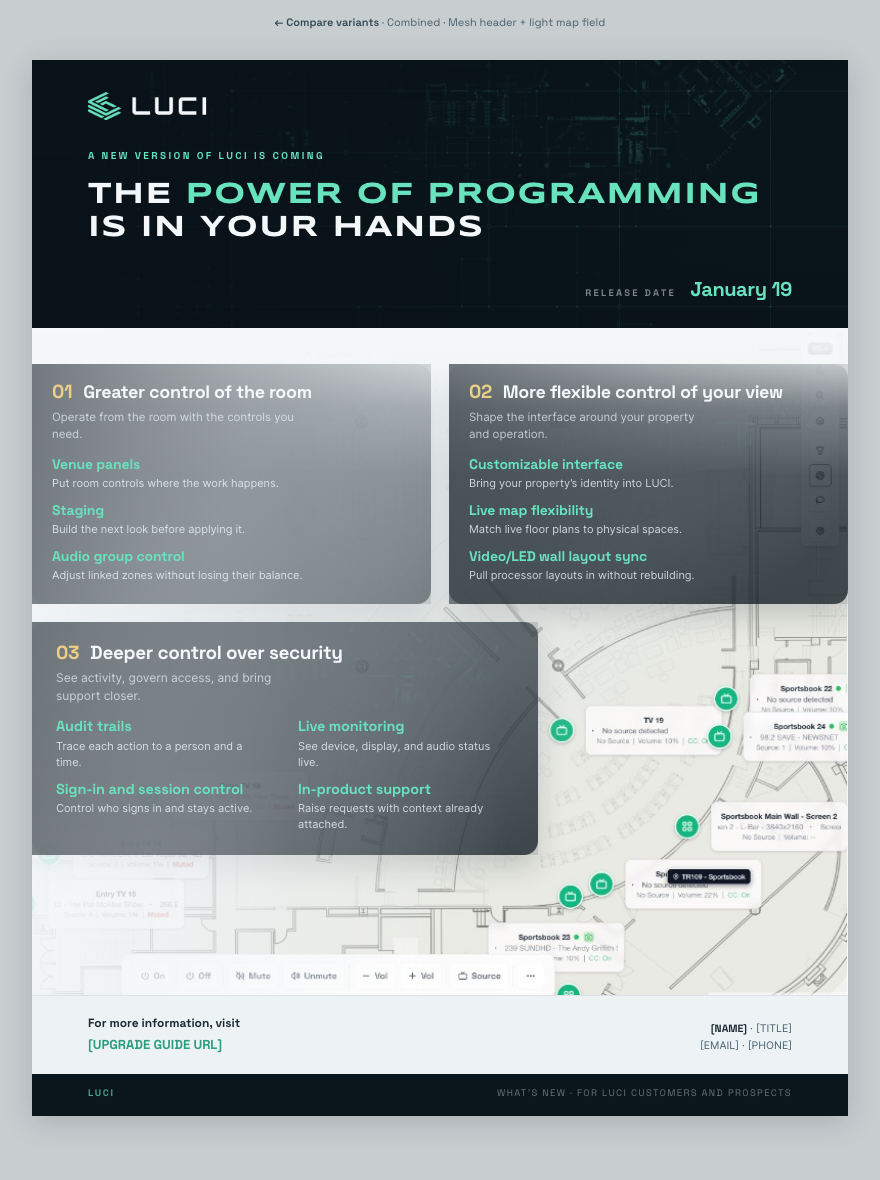
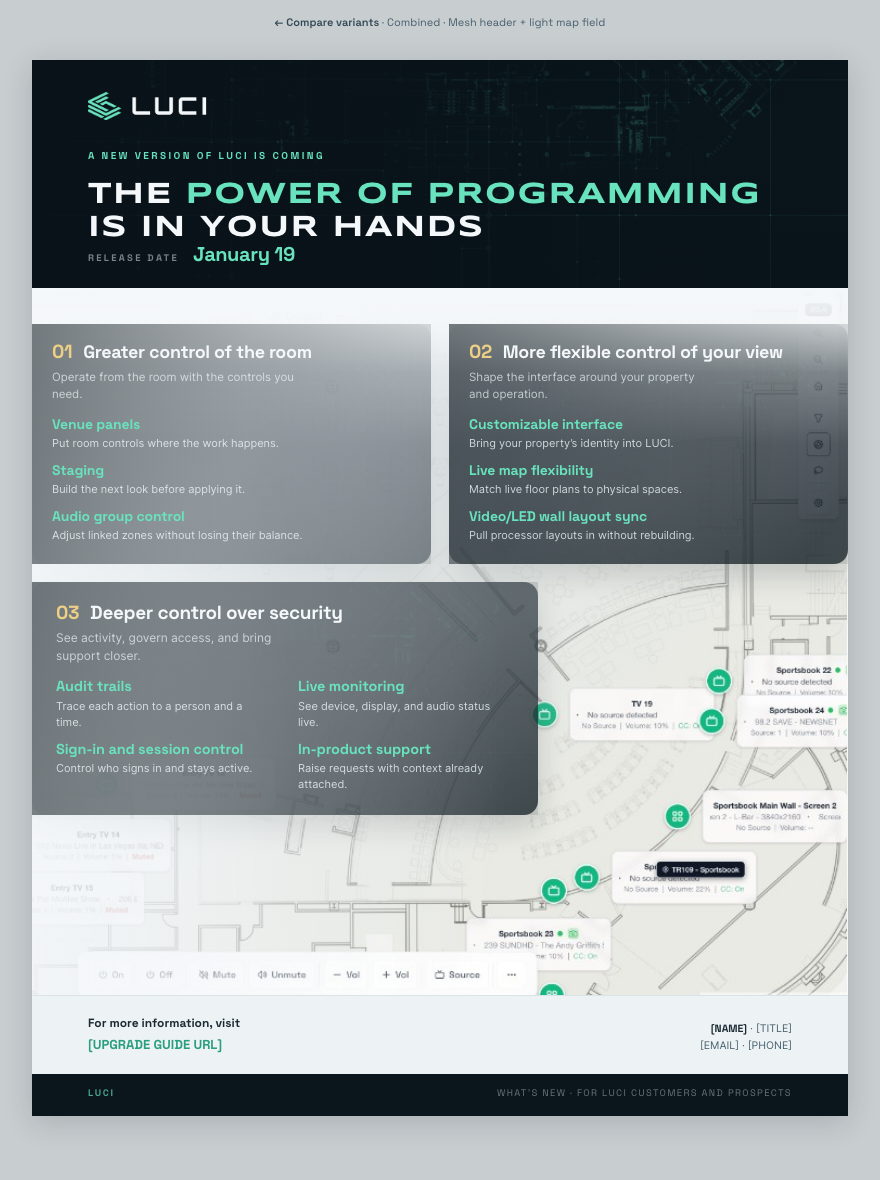
What's New one-pager: tighten header height, move release date left
Header 268→228px now that the 2-line Syncopate title is more
compact. Release date moves from right to left — reads
better under the left-aligned title stack.

diff --git a/LUCI Systems Design System/ui_kits/sales/new-luci-whats-new-onepager-flow-c.html b/LUCI Systems Design System/ui_kits/sales/new-luci-whats-new-onepager-flow-c.html
@@ -35,7 +35,7 @@ body{font-family:var(--font-body);background:#c8cdd0;color:var(--ink);font-size:
 }
 
 /* ── HEADER (Variant B) ──────────────────────────────────────────────── */
-.mast{position:relative;flex:0 0 268px;height:268px;overflow:hidden;
+.mast{position:relative;flex:0 0 228px;height:228px;overflow:hidden;
   padding:32px var(--pad) 26px;background:var(--navy-deep);color:var(--off-white)}
 .mast__mesh{position:absolute;inset:0;width:100%;height:100%;
   object-fit:cover;object-position:62% 28%;opacity:0.55;z-index:0;pointer-events:none}
@@ -52,7 +52,7 @@ body{font-family:var(--font-body);background:#c8cdd0;color:var(--ink);font-size:
 .mast__theme{margin-top:14px;font-family:var(--display);font-weight:700;font-size:30px;
   line-height:1.1;letter-spacing:0.05em;text-transform:uppercase;color:var(--off-white);max-width:100%}
 .mast__theme em{font-style:normal;color:var(--mint)}
-.mast__base{margin-top:auto;display:flex;justify-content:flex-end;align-items:baseline;gap:14px}
+.mast__base{margin-top:auto;display:flex;justify-content:flex-start;align-items:baseline;gap:14px}
 .mast__date-label{font-family:var(--font);font-weight:700;font-size:9.5px;
   letter-spacing:0.24em;text-transform:uppercase;color:rgba(235,245,248,0.5)}
 .mast__date-value{font-family:var(--font);font-weight:700;font-size:20px;
